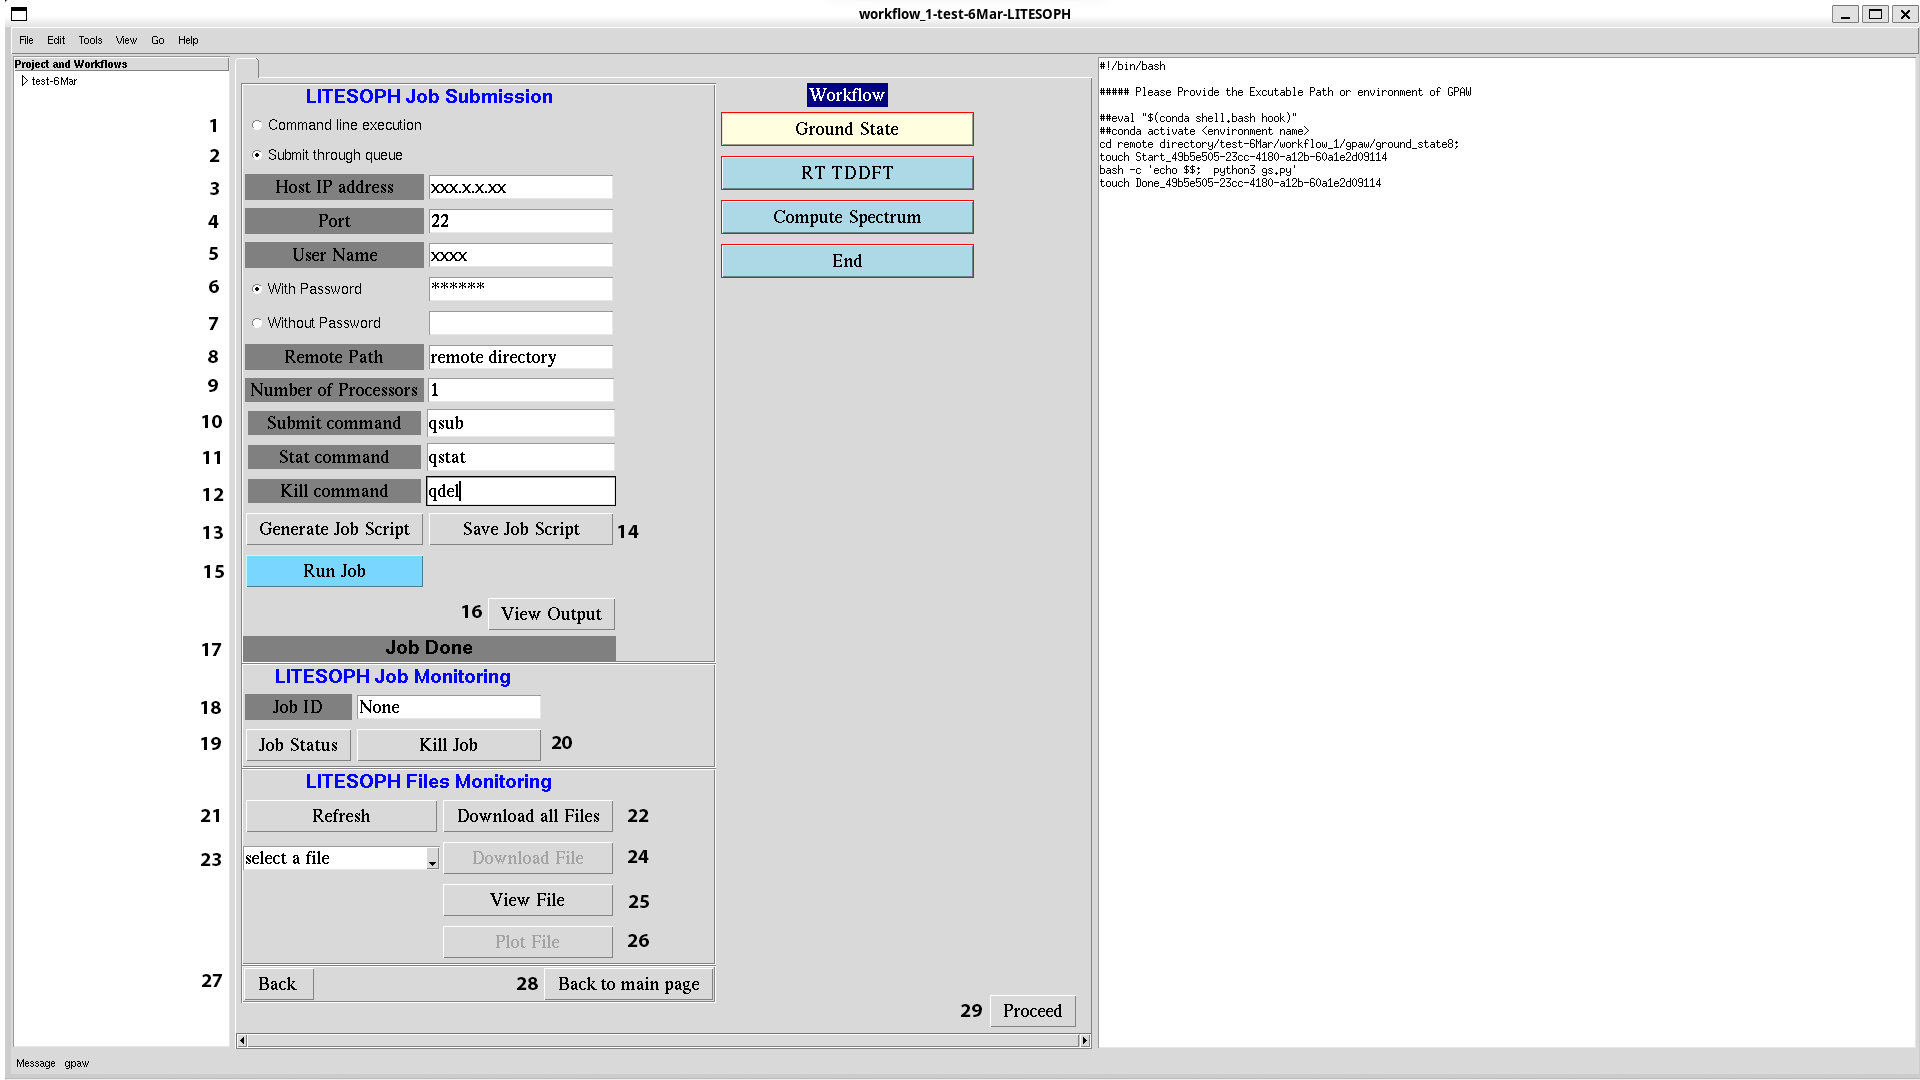
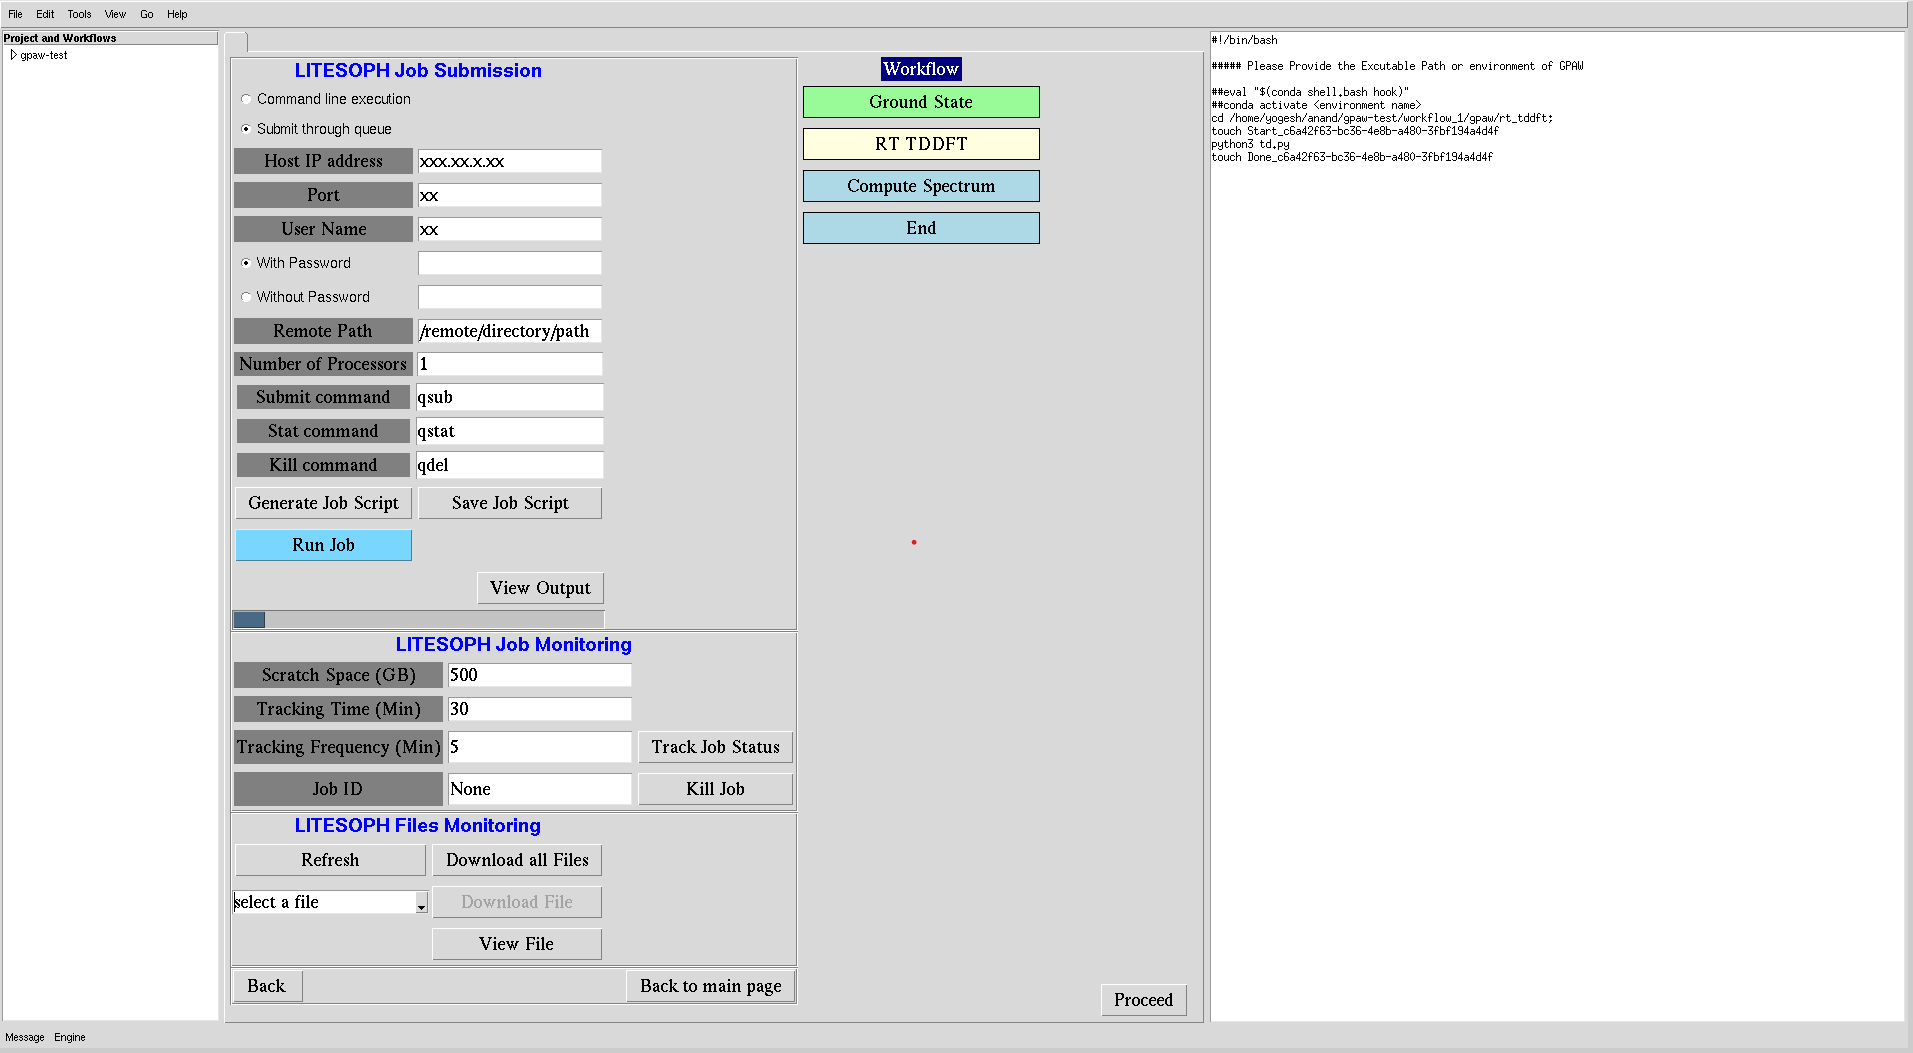
added docs for updated runtime query

Changed region(s): [[0.0, 0.0, 1.0, 1.0]]

diff --git a/source/user_documentation/job_submission_monitoring.rst b/source/user_documentation/job_submission_monitoring.rst
@@ -54,24 +54,30 @@ remote machine which requires captcha authentication for login, passwordless log
 
 **18. Job ID:** to enter the job ID requires to kill simulation
 
-**19. Job Status:** checks the status of running job.
+**19. Scratch Space:** maximum space available to run simulation on machine 
 
-**20. Kill Job:** kill running simulation using Job ID.
+**20. Tracking Time:** maximum time in minutes to monitor running job
 
-**21. Refresh:** get the files information of current project on remote machine.
+**21. Tracking Frequency:** time interval in minutes to periodically monitor running jobs
 
-**22. Download All Files:** to downlaod all files from remote machine.
+**22. Job Status:** checks the status of running job.
 
-**23. File selection widget:** widget to select relevant files of current project.
+**23. Kill Job:** kill running simulation using Job ID.
 
-**24. Download File:** to download the selected file.
+**24. Refresh:** get the files information of current project on remote machine.
 
-**25. View File:** to download the selected file.
+**25. Download All Files:** to downlaod all files from remote machine.
 
-**26. Plot File:** to open litesoph visualisation toolkit.
+**26. File selection widget:** widget to select relevant files of current project.
 
-**27. Back:** get to previous page.
+**27. Download File:** to download the selected file.
 
-**28. Back to main page:** get back to main page.
+**28. View File:** to download the selected file.
 
-**29. Proceed:** to proceed to next task of workflow.
+**29. Plot File:** to open litesoph visualisation toolkit.
+
+**30. Back:** get to previous page.
+
+**31. Back to main page:** get back to main page.
+
+**32. Proceed:** to proceed to next task of workflow.
